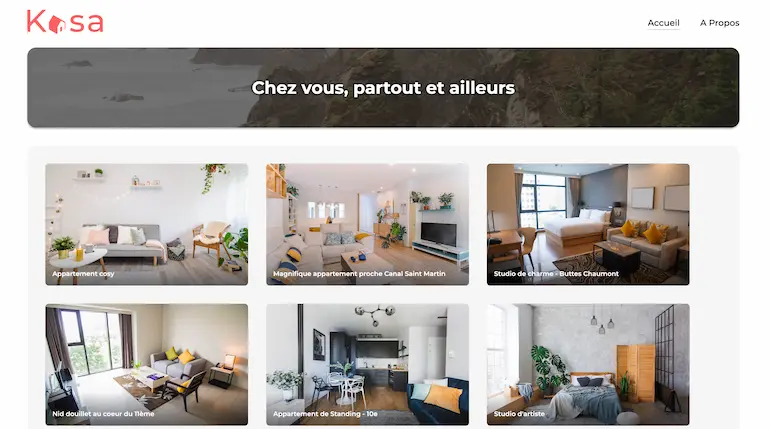
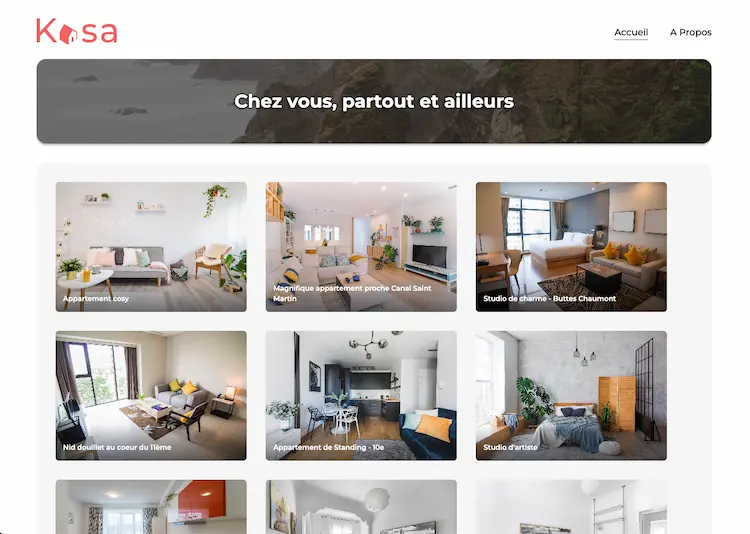
ohmyfoodDone

diff --git a/src/assets/data/projects.js b/src/assets/data/projects.js
@@ -1,22 +1,24 @@
-import kasacover from '../img/imgPortfolio/kasa.webp'
+import kasaCover from '../img/imgPortfolio/kasa.webp'
 import kasaLogo from '../img/imgPortfolio/kasaLogo.webp'
 import sophieBluelCover from '../img/imgPortfolio/sophieBluel.webp'
 import sophieBluelLogo from '../img/imgPortfolio/sophieBluelLogo.webp'
+import ohMyFoodCover from '../img/imgPortfolio/ohMyFood.webp'
+import ohMyFoodLogo from '../img/imgPortfolio/ohMyFoodLogo.webp'
 
 export const projects = [
     {
         id: 1,
-        name: "Kasa",
+        name: "Plateforme de location",
         description: "Développer en React le front-end d'une plateforme de location d'appartements, en utilisant React/Vite, React Router et Sass selon des maquettes Figma responsives. Le projet inclut une galerie d'images avec navigation circulaire et des composants Collapse animés, alimentés par des données JSON simulées. Focus sur le développement front-end moderne.",
         technologies: ["React", "React Router", "Node.js", "Vite", "Sass"],
-        image: kasacover,
+        image: kasaCover,
         logo: kasaLogo,
         githubLink: "https://github.com/roCal93/Kasa.git",
         demoLink: "https://roCal93.github.io/Kasa",
         features: [
             "Initialisation d'une application avec Vite",
             "Configuration de la navigation entre les pages de l'application avec React Router",
-            "Développement des éléments de l'interface d'un site web grâce à des composants React",
+            "Développement de l'interface d'un site web avec des composants React",
             "Mise en œuvre d'animations CSS",
             "Développement d'une interface web avec Sass"
         ]
@@ -24,7 +26,7 @@ export const projects = [
     {
         id: 2,
         name: "Portfolio d'architecte",
-        description: "Dans ce projet, j’ai développé une page web dynamique pour une architecte d’intérieur en utilisant JavaScript et en interagissant avec une API. J’ai conçu la partie Front-End, avec une page de présentation des travaux, une interface de connexion pour l’administrateur et une modale d’upload de médias, tout en gérant les événements utilisateurs et en manipulant le DOM. Ce projet m’a permis de renforcer mes compétences en JavaScript et en communication avec une API, des savoir-faire indispensables pour le développement web moderne.",
+        description: "Dans ce projet, J’ai développé une page web dynamique pour une architecte d’intérieur en JavaScript, avec une galerie de projets, une interface de connexion admin et une modale d’upload, tout en interagissant avec une API et en manipulant le DOM. Ce projet a renforcé mes compétences en JavaScript et en communication avec une API.",
         technologies: ["HTML5", "CSS3", "JavaScript(ES6+)", "APIs REST"],
         image: sophieBluelCover,
         logo: sophieBluelLogo,
@@ -43,27 +45,26 @@ export const projects = [
     },
     {
         id: 3,
-        name: "API REST Blog",
-        description: "API REST complète pour un système de blog avec authentification",
-        technologies: ["Node.js", "Express", "PostgreSQL", "JWT", "Docker"],
-        image: "/images/api-blog-preview.jpg",
-        githubLink: "https://github.com/username/blog-api",
-        demoLink: "https://api-blog-docs.herokuapp.com",
-        creationDate: "2023-09",
-        duration: "1.5 mois",
-        status: "Terminé",
+        name: "Plateforme de réservation",
+        description: "Dans ce projet, j’ai intégré une maquette mobile-first à partir de designs Figma, en y ajoutant des animations CSS pour améliorer l’expérience utilisateur. J’ai structuré les styles avec Sass et versionné le projet via Git et GitHub. Ce travail m’a permis de consolider mes compétences en intégration responsive et en animation front-end.",
+        technologies: ["HTML5", "CSS3", "Sass", "Animations CSS", "Figma", "Git", "GitHub"],
+        image: ohMyFoodCover,
+        logo: ohMyFoodLogo,
+        githubLink: "https://github.com/roCal93/ohMyFood",
+        demoLink: "https://rocal93.github.io/ohMyFood/",
         features: [
-            "CRUD complet articles",
-            "Système de commentaires",
-            "Gestion des utilisateurs",
-            "Documentation Swagger",
-            "Tests unitaires Jest"
+            "Intégration mobile-first",
+            "Responsive design",
+            "Animations CSS",
+            "Utilisation de Sass",
+            "Versionnage avec Git",
+            "Lecture de maquettes Figma",
         ]
     },
     {
         id: 4,
-        name: "Dashboard Analytics",
-        description: "Tableau de bord interactif pour visualisation de données",
+        name: "Mon portfolio",
+        description: "",
         technologies: ["Angular", "D3.js", "TypeScript", "RxJS", "Material UI"],
         image: "/images/dashboard-preview.jpg",
         githubLink: "https://github.com/username/analytics-dashboard",
@@ -79,23 +80,5 @@ export const projects = [
             "Responsive design"
         ]
     },
-    {
-        id: 5,
-        name: "Application Mobile Météo",
-        description: "Application météo géolocalisée avec prévisions sur 7 jours",
-        technologies: ["React Native", "Expo", "OpenWeather API", "AsyncStorage"],
-        image: "/images/weather-app-preview.jpg",
-        githubLink: "https://github.com/username/weather-app",
-        demoLink: "https://expo.dev/@username/weather-app",
-        creationDate: "2023-12",
-        duration: "1 mois",
-        status: "Terminé",
-        features: [
-            "Géolocalisation automatique",
-            "Prévisions détaillées",
-            "Villes favorites",
-            "Notifications météo",
-            "Mode hors ligne"
-        ]
-    }
+
 ];

diff --git a/src/app/App.jsx b/src/app/App.jsx
@@ -45,26 +45,45 @@ function App() {
 
       setDirection(direction)
       isNavigatingRef.current = true
-      navigate(SECTIONS[nextIndex].path)
 
+      // CORRECTION 1: Déclencher la navigation après avoir défini la direction
+      requestAnimationFrame(() => {
+        navigate(SECTIONS[nextIndex].path)
+      })
+
+      // CORRECTION 2: Ajuster le timeout selon la durée de transition CSS
       setTimeout(() => {
         isNavigatingRef.current = false
-      }, 800)
+      }, 600) // Correspond à la transition CSS de 0.6s
     },
     [getCurrentSectionIndex, navigate]
   )
+
+  // CORRECTION 3: Synchroniser avec le changement de route
+  useEffect(() => {
+    // Reset du flag de navigation quand la route change effectivement
+    const timer = setTimeout(() => {
+      isNavigatingRef.current = false
+    }, 650) // Légèrement plus long que la transition
+
+    return () => clearTimeout(timer)
+  }, [location.pathname])
 
   useEffect(() => {
     const handleWheel = (e) => {
       // Vérifier si on est dans une zone qui doit pouvoir scroller
       if (
         e.target.closest('.allowScroll') ||
-        e.target.closest('.features') || // ← Ajouté
+        e.target.closest('.features') ||
         e.target.closest('[class*="features"]')
       )
-        return // ← Pour les CSS modules
+        return
 
       e.preventDefault()
+
+      // CORRECTION 4: Debounce pour éviter les events multiples
+      if (isNavigatingRef.current) return
+
       const dir = e.deltaY > 0 ? 'down' : 'up'
       navigateToSection(dir)
     }
@@ -80,6 +99,9 @@ function App() {
 
   useEffect(() => {
     const handleTouchStart = (e) => {
+      // CORRECTION 5: Vérifier qu'on n'est pas en train de naviguer
+      if (isNavigatingRef.current) return
+
       touchStartRef.current = {
         x: e.touches[0].clientX,
         y: e.touches[0].clientY,
@@ -87,10 +109,13 @@ function App() {
     }
 
     const handleTouchMove = (e) => {
+      if (isNavigatingRef.current) return
       e.preventDefault()
     }
 
     const handleTouchEnd = (e) => {
+      if (isNavigatingRef.current) return
+
       touchEndRef.current = {
         x: e.changedTouches[0].clientX,
         y: e.changedTouches[0].clientY,
@@ -127,6 +152,8 @@ function App() {
 
   useEffect(() => {
     const handleKeyDown = (e) => {
+      if (isNavigatingRef.current) return
+
       if (e.key === 'ArrowDown') {
         e.preventDefault()
         navigateToSection('down')
@@ -151,7 +178,6 @@ function App() {
           height: '100vh',
           overflow: 'hidden',
           position: 'relative',
-          // AJOUT : Utiliser flexbox pour gérer l'espace
           display: 'flex',
           flexDirection: 'column',
         }}
@@ -159,14 +185,14 @@ function App() {
         <Header />
         <main
           style={{
-            // CHANGEMENT : Utiliser flex: 1 au lieu de height: 100vh
             flex: 1,
-            minHeight: 0, // Important pour que flex fonctionne correctement
-            overflow: 'auto',
+            minHeight: 0,
+            overflow: 'hidden', // CORRECTION 6: Changer 'auto' en 'hidden' pour éviter le scroll
             transition: 'all 0.6s ease-in-out',
-            // AJOUT : S'assurer que le main se comporte comme un conteneur flex
             display: 'flex',
             flexDirection: 'column',
+            // CORRECTION 7: S'assurer de la position relative pour les animations
+            position: 'relative',
           }}
         >
           <Outlet />

diff --git a/src/pages/portfolio/portfolio.module.scss b/src/pages/portfolio/portfolio.module.scss
@@ -14,11 +14,11 @@
     gap: 1rem;
     padding: 0 1rem;
     justify-content: center;
-    margin-bottom: 10rem;
   }
   @media (max-width: 380px) {
     gap: 0;
-    justify-content: flex-start;
+    justify-content: center;
+    margin-bottom: 1rem;
   }
 
   .title {
@@ -35,7 +35,7 @@
       text-align: left;
       @media (max-width: 900px) {
         text-align: center;
-        margin-top: 3rem;
+        margin-top: 1rem;
         @media (max-width: 550px) {
           margin-top: 1rem;
         }
@@ -73,9 +73,22 @@
 }
 
 .projectCardFront {
-  max-height: calc(45vh - 1rem);
-  overflow: hidden; // Ajout important pour éviter le débordement
+  height: 45vh;
+  overflow: hidden;
   pointer-events: none;
+  position: relative;
+  border-radius: 12px;
+  box-shadow: 0 4px 12px rgba(0, 0, 0, 0.1);
+  @media (max-width: 900px) {
+    height: 45vh;
+  }
+  @media (max-width: 768px) {
+    height: 40vh;
+  }
+  @media (max-width: 480px) {
+    height: 30vh;
+  }
+
   .imageContainer {
     width: 100%;
     height: 100%;
@@ -84,23 +97,32 @@
       height: 100%;
       object-fit: cover;
       pointer-events: none;
-      display: block; // Évite les espaces indésirables sous l'image
+      display: block;
     }
   }
 
-  .imageTitle {
+  .cardTitle {
     position: absolute;
-    top: -3.5rem;
-    left: 50%;
-    transform: translateX(-50%) translateY(50%);
-    color: rgb(0, 0, 0);
-    text-align: center;
+    bottom: 0;
+    left: 0;
+    right: 0;
+    background: linear-gradient(to top, rgba(0, 0, 0, 0.8), rgba(0, 0, 0, 0.3));
+    color: white;
+    padding: 1.5rem 1rem 1rem 1rem;
     margin: 0;
-    border-radius: 5px;
     font-size: 1.5rem;
+    font-weight: 600;
+    text-align: center;
+    backdrop-filter: blur(4px);
+
+    @media (max-width: 768px) {
+      font-size: 1.3rem;
+      padding: 1.2rem 0.8rem 0.8rem 0.8rem;
+    }
+
     @media (max-width: 480px) {
-      font-size: 1.2rem;
-      top: -3.1rem;
+      font-size: 1.1rem;
+      padding: 1rem 0.6rem 0.6rem 0.6rem;
     }
   }
 }
@@ -264,20 +286,16 @@
       overflow-y: scroll; // ← Changé de 'auto' à 'scroll' pour forcer l'affichage
       padding-right: 8px;
 
-      // Pour Firefox - doit être avant les règles imbriquées
-      scrollbar-width: thin;
-      scrollbar-color: rgba(0, 0, 0, 0.2) rgba(0, 0, 0, 0.05);
-
       // Mobile
       @media (max-width: 768px) {
         gap: 0.4rem;
-        max-height: calc(3 * (0.8rem + 0.4rem) + 3 * 0.4rem);
+        max-height: calc(4 * (0.8rem + 0.4rem) + 4 * 0.4rem);
         padding-right: 6px;
       }
 
       // Très petit écran
       @media (max-width: 480px) {
-        max-height: calc(3 * (0.8rem + 0.4rem) + 2.5 * 0.4rem);
+        max-height: calc(3 * (0.8rem + 0.4rem) + 3 * 0.4rem);
         padding-right: 4px;
       }
 

diff --git a/src/components/projectCarousel/projectCarousel.module.scss b/src/components/projectCarousel/projectCarousel.module.scss
@@ -16,7 +16,7 @@
   user-select: none;
   scroll-snap-type: x mandatory;
   -webkit-overflow-scrolling: touch;
-  padding-bottom: 1rem;
+  padding: 1rem;
 
   &:active {
     cursor: grabbing;
@@ -31,28 +31,21 @@
   flex: 0 0 auto;
   width: 50%;
   max-width: 750px;
-  max-height: 45vh;
+
   background: white;
   border-radius: 12px;
-  box-shadow: 0 4px 10px rgba(0, 0, 0, 0.1);
-  padding: 0.5rem;
-  margin-top: 2.7rem;
   text-align: center;
   font-size: 1.2rem;
   scroll-snap-align: center;
   transition: transform 0.3s ease;
   cursor: pointer;
   box-sizing: border-box;
-  @media (max-width: 1050px) {
+  @media (max-width: 1200px) {
     width: 90%;
-  }
-  @media (max-width: 480px) {
-    margin-top: 1.7rem;
   }
 
   &[aria-selected='true'] {
     transform: scale(1.03);
-    box-shadow: 0 6px 14px rgba(0, 0, 0, 0.15);
   }
 
   &:hover {
@@ -215,11 +208,14 @@
   background: white;
   border-radius: 16px;
   box-shadow: 0 10px 30px rgba(0, 0, 0, 0.3);
-  max-width: 85vw;
+  max-width: 50vw;
   max-height: 85vh;
   overflow: auto;
   transform-origin: center;
   animation: bounceIn 0.5s ease;
+  @media (max-width: 1050px) {
+    max-width: 85vw;
+  }
 }
 
 .closeButton {

diff --git a/src/pages/portfolio/Portfolio.jsx b/src/pages/portfolio/Portfolio.jsx
@@ -15,7 +15,7 @@ function Portfolio() {
     <div key={projet.id} className={styles.projectCardFront}>
       <div className={styles.imageContainer}>
         <img src={projet.image} alt={projet.description} />
-        <h2 className={styles.imageTitle}>{projet.name}</h2>
+        <h2 className={styles.cardTitle}>{projet.name}</h2>
       </div>
     </div>
   ))
